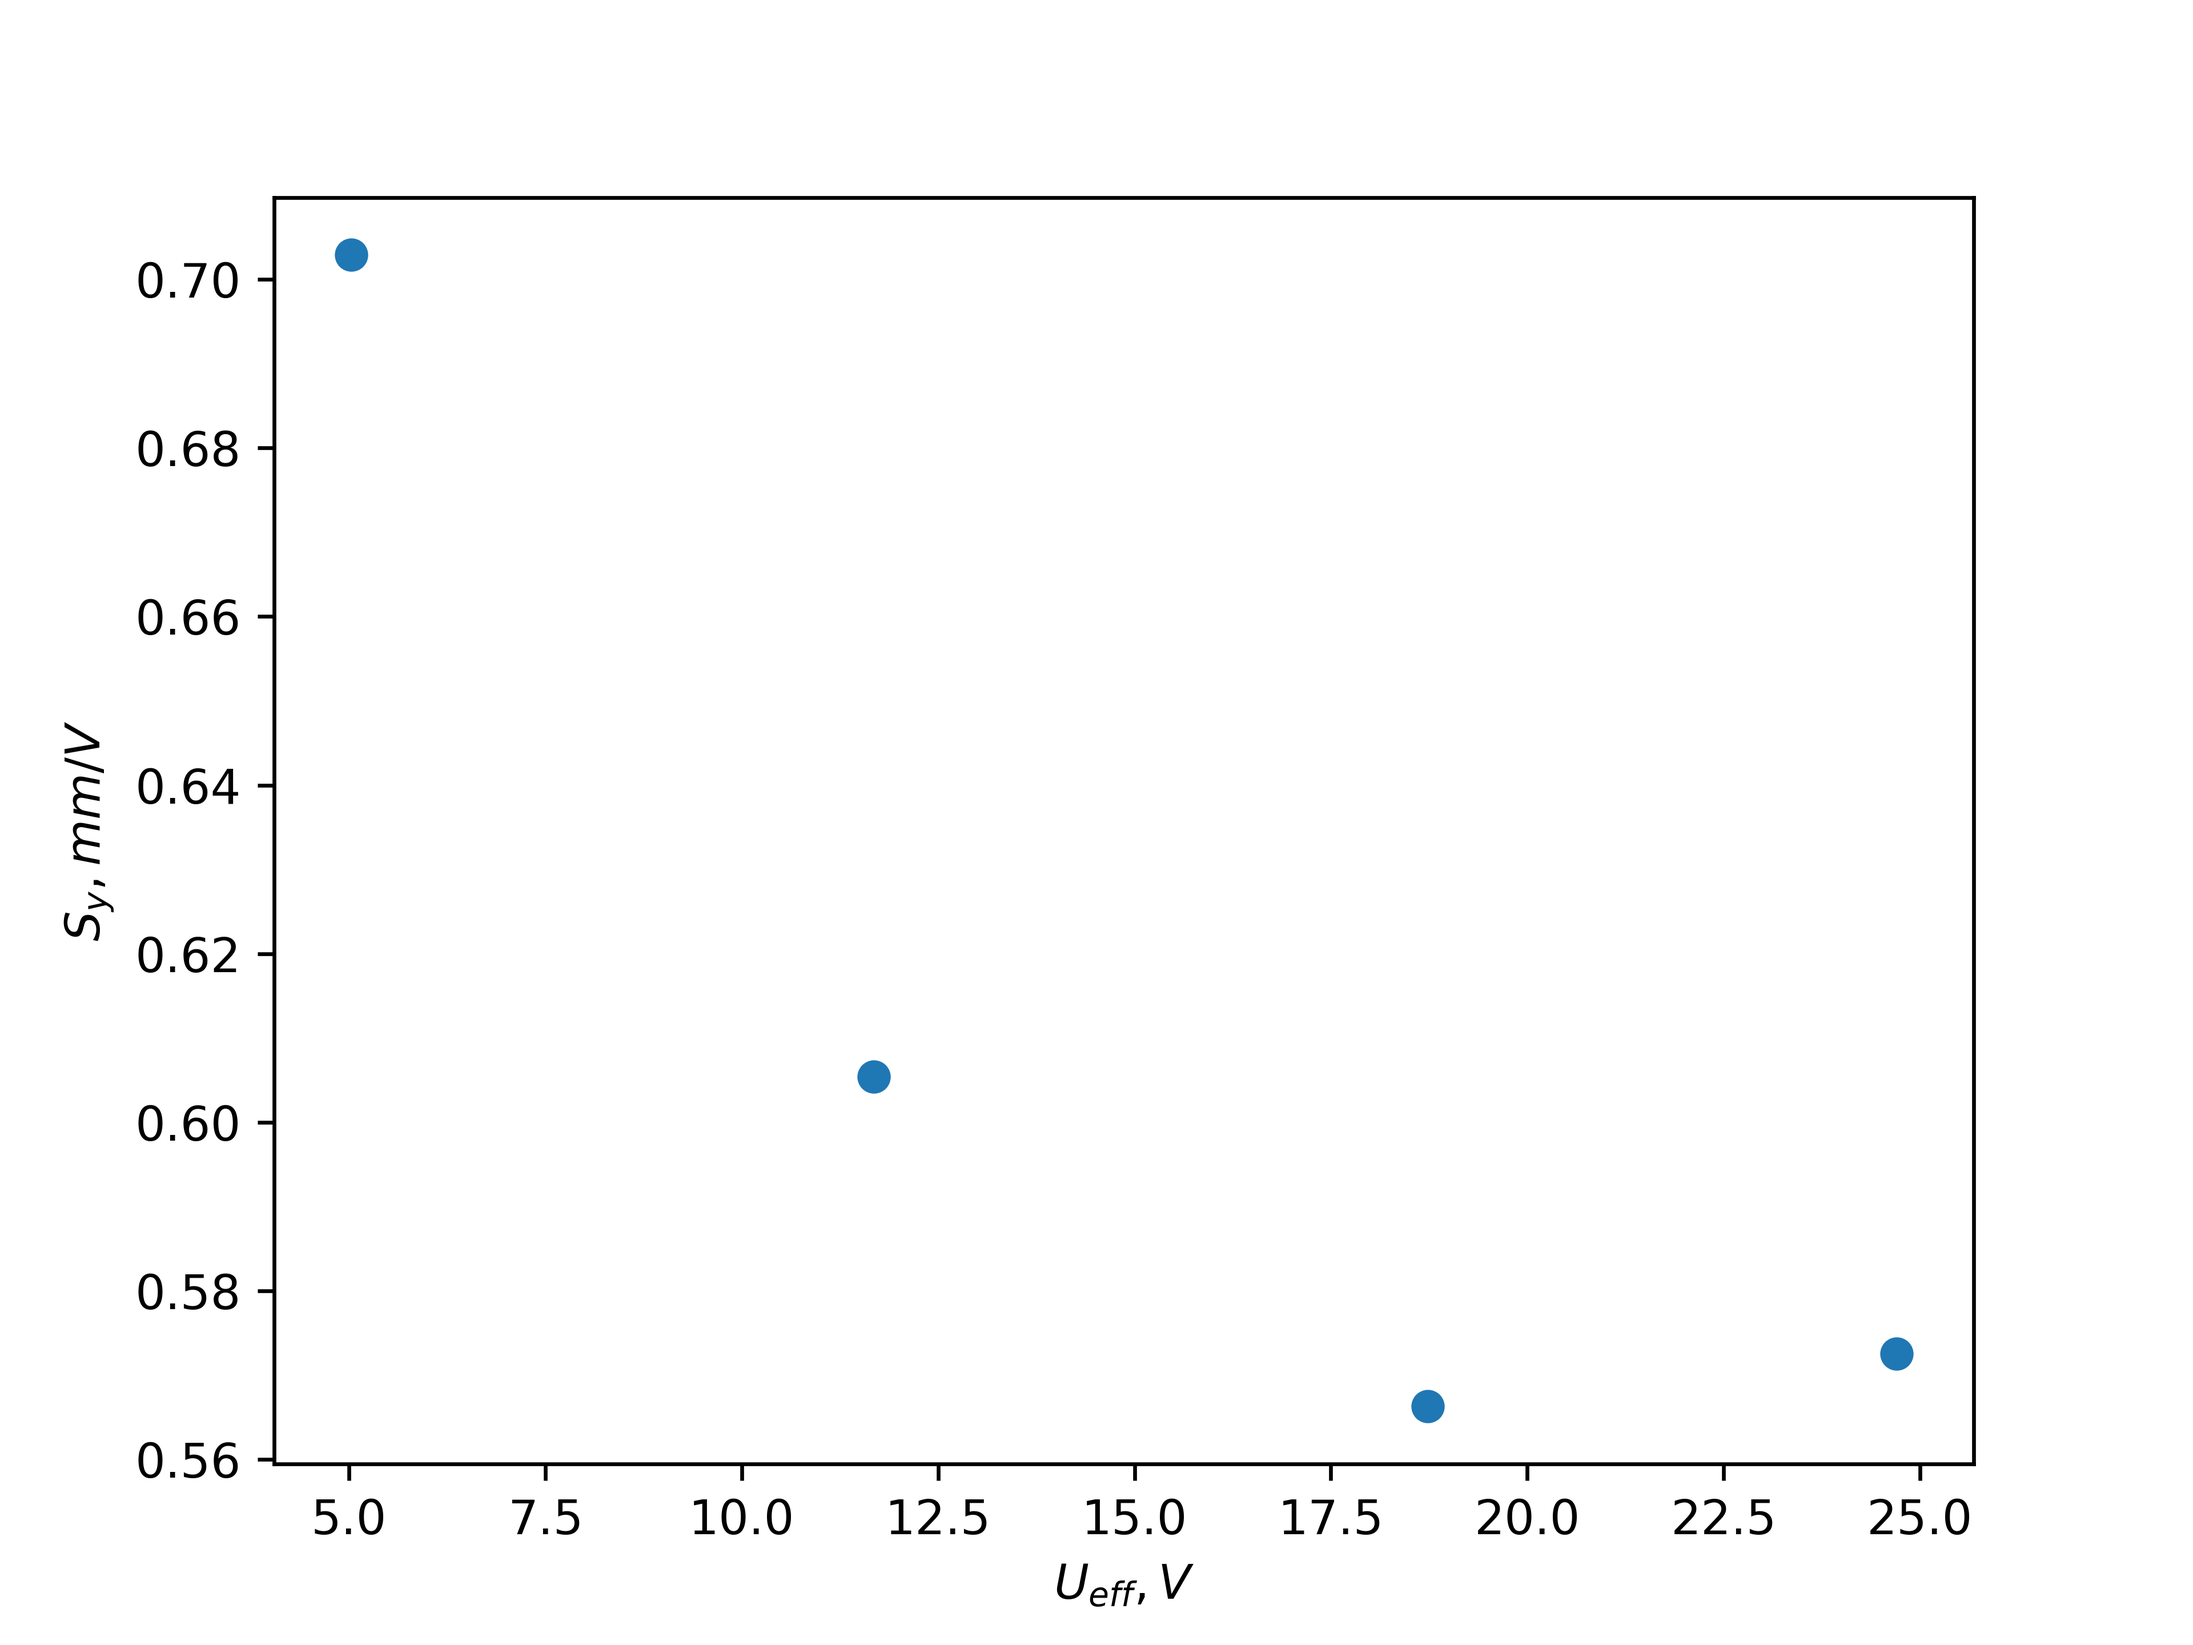
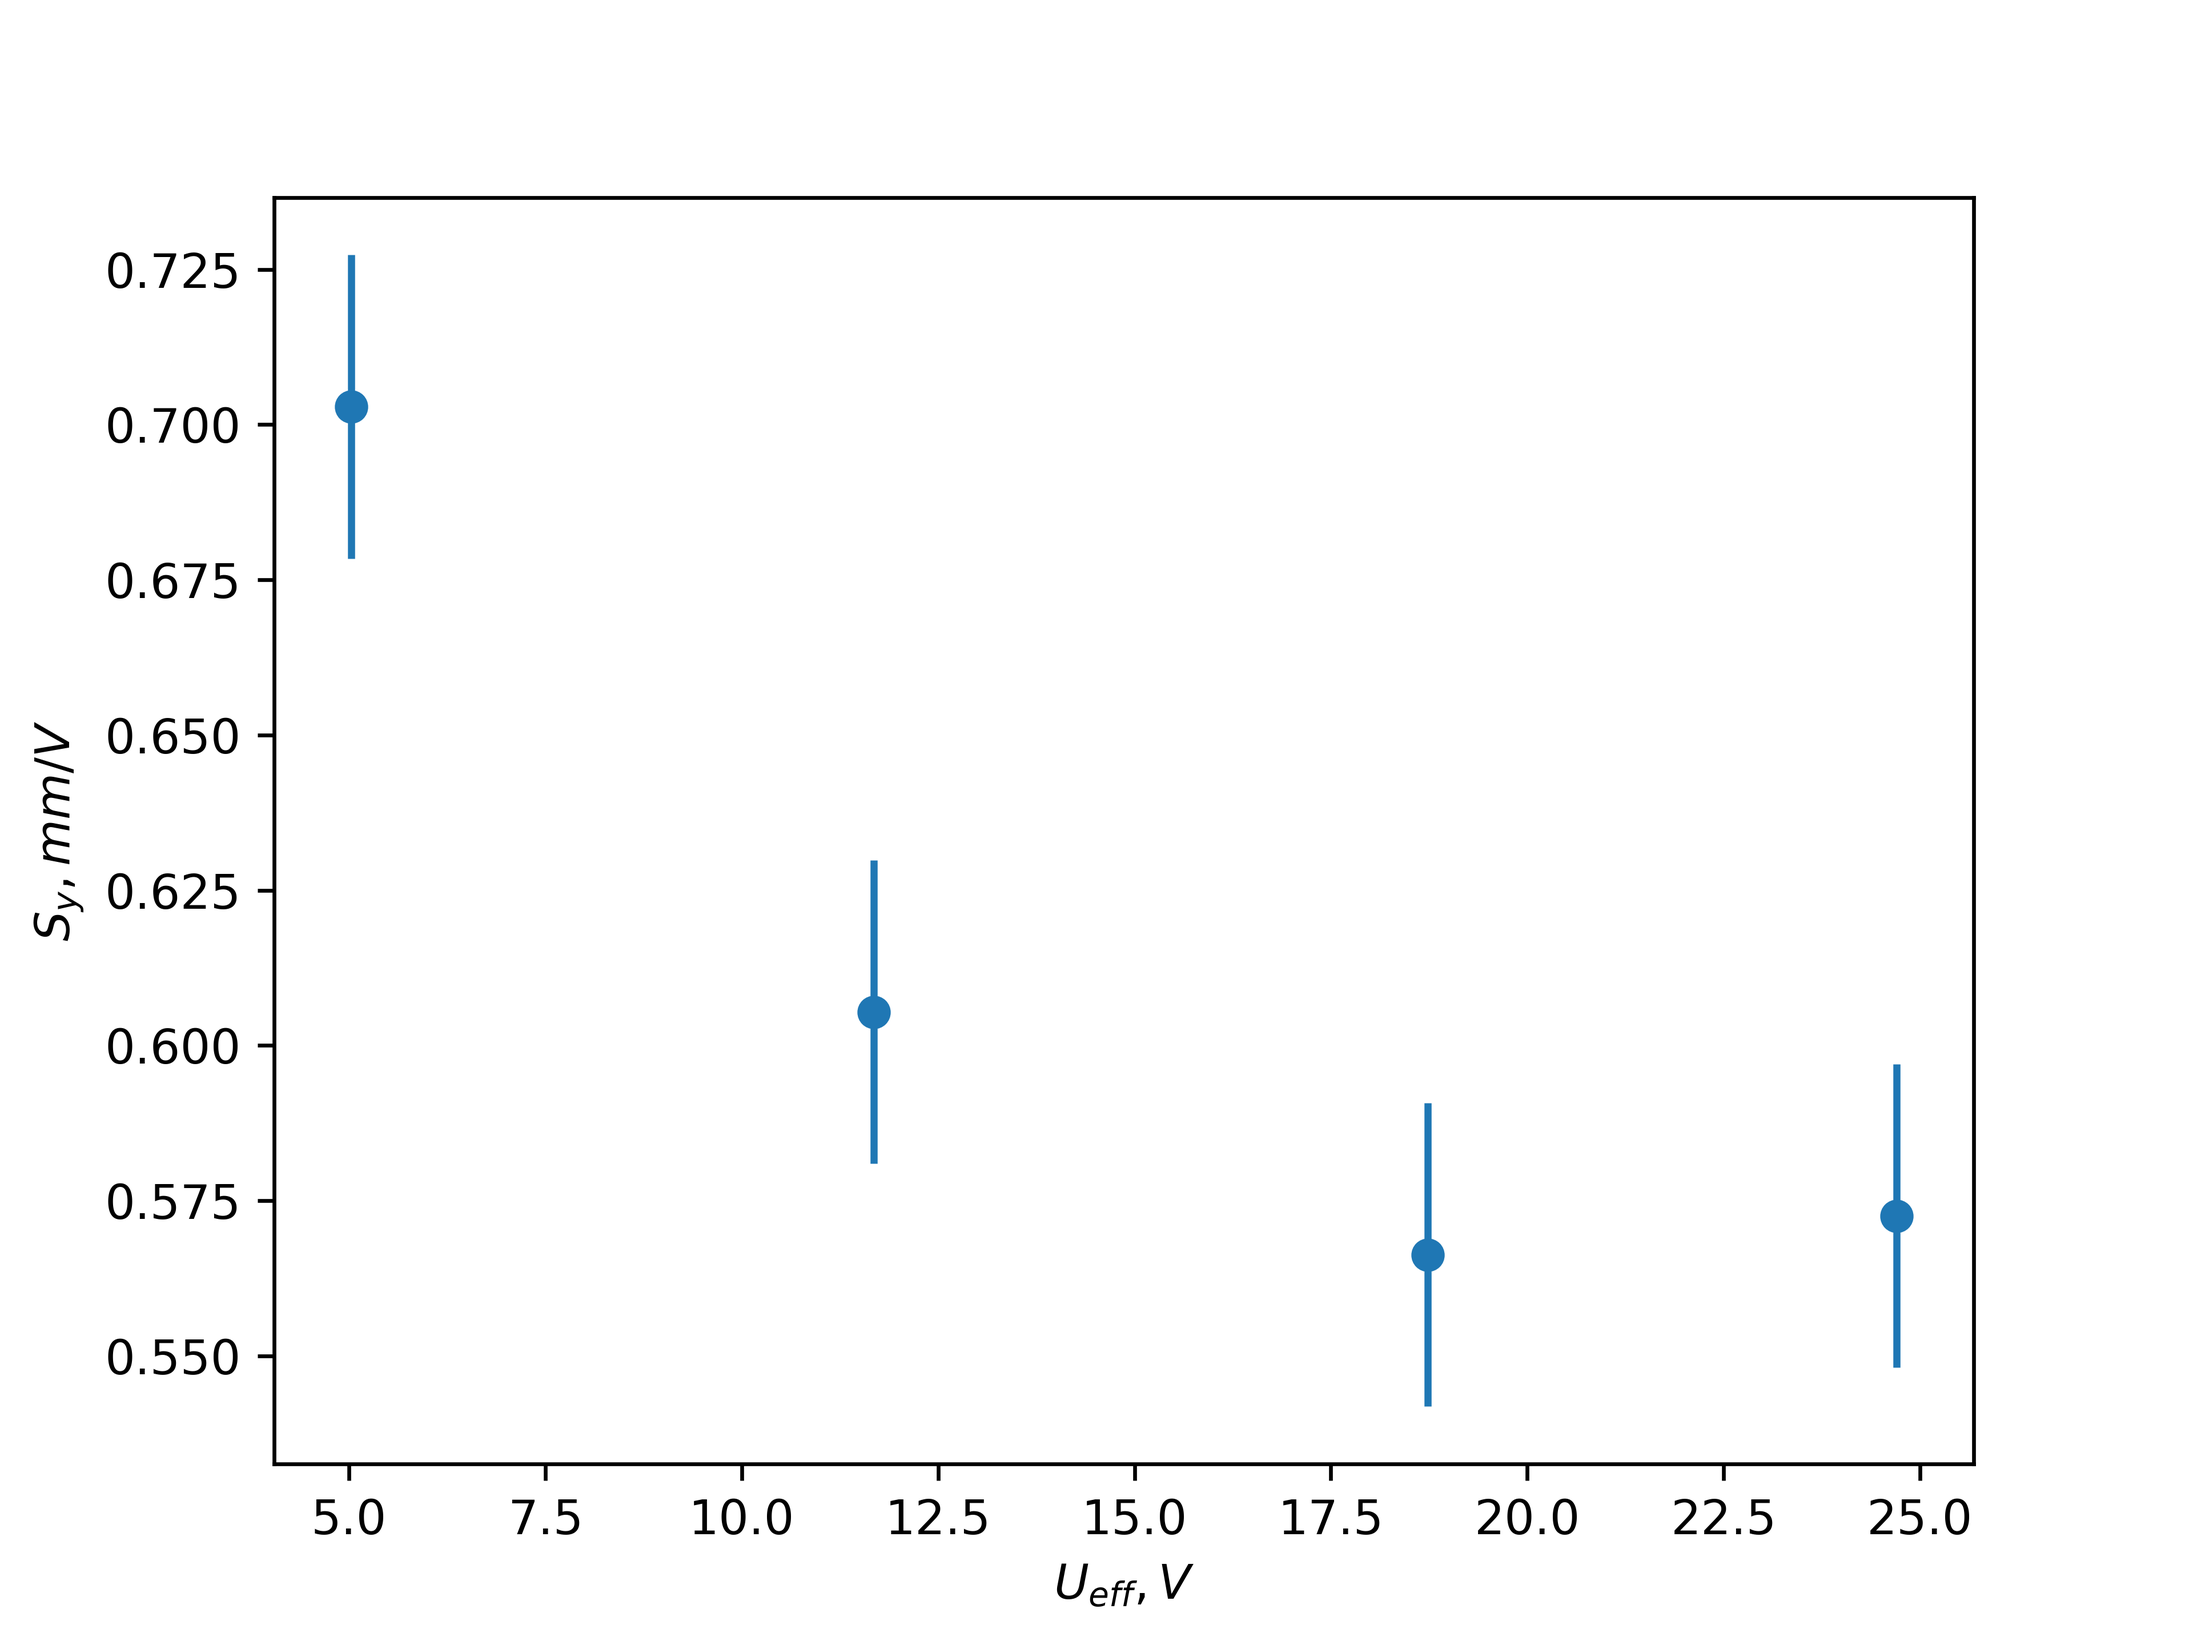
upd

diff --git a/2/script2.py b/2/script2.py
@@ -63,8 +63,8 @@ np.savetxt(file_path3, result_values3, delimiter=",")
 fig1, ax1 = plt.subplots()
 fig2, ax2 = plt.subplots()
 
-ax1.scatter(uv_values, s_y)
-ax2.scatter(ug_values, s_x)
+ax1.errorbar(uv_values, s_y, yerr=dy, fmt='o')
+ax2.errorbar(ug_values, s_x, yerr=dx, fmt='o')
 
 ax1.set_ylabel(r'$ S_y , mm / V $')
 ax2.set_ylabel(r'$ S_x , mm / V $')
